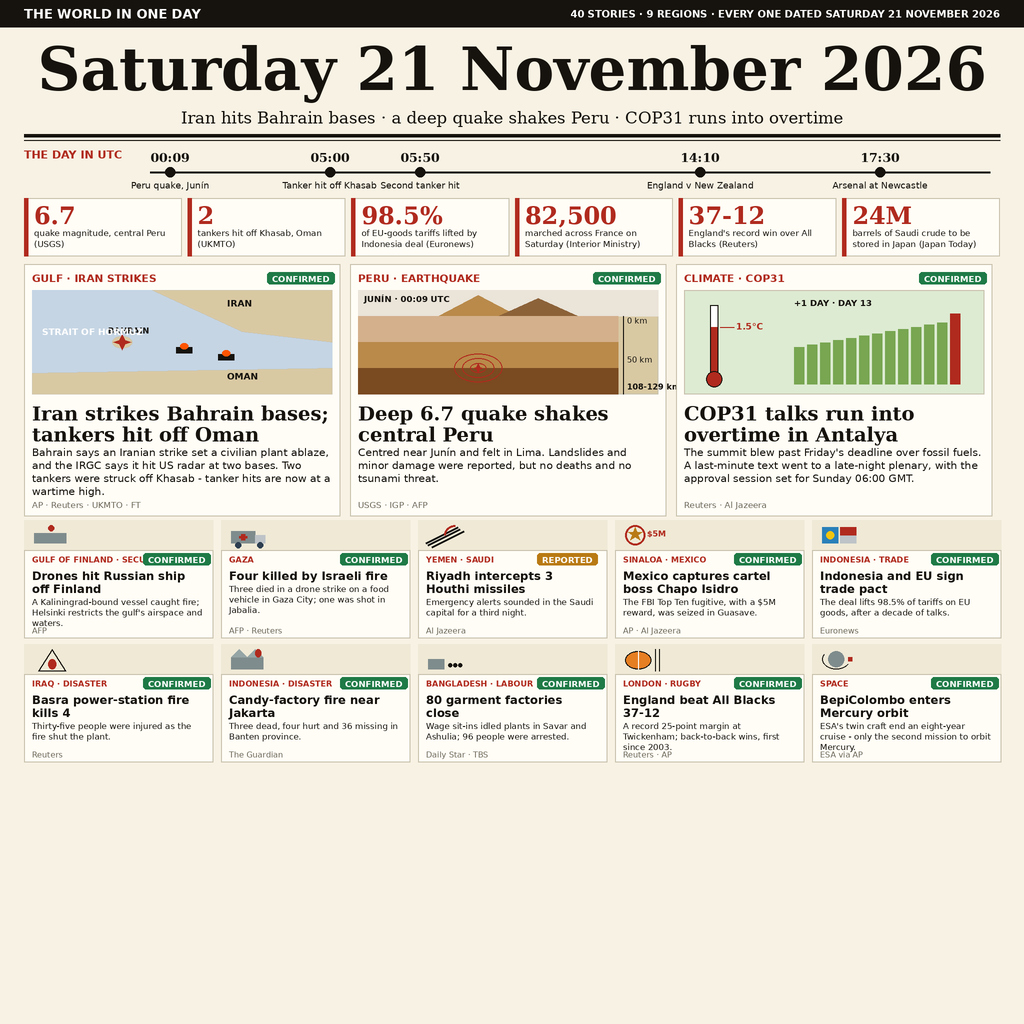
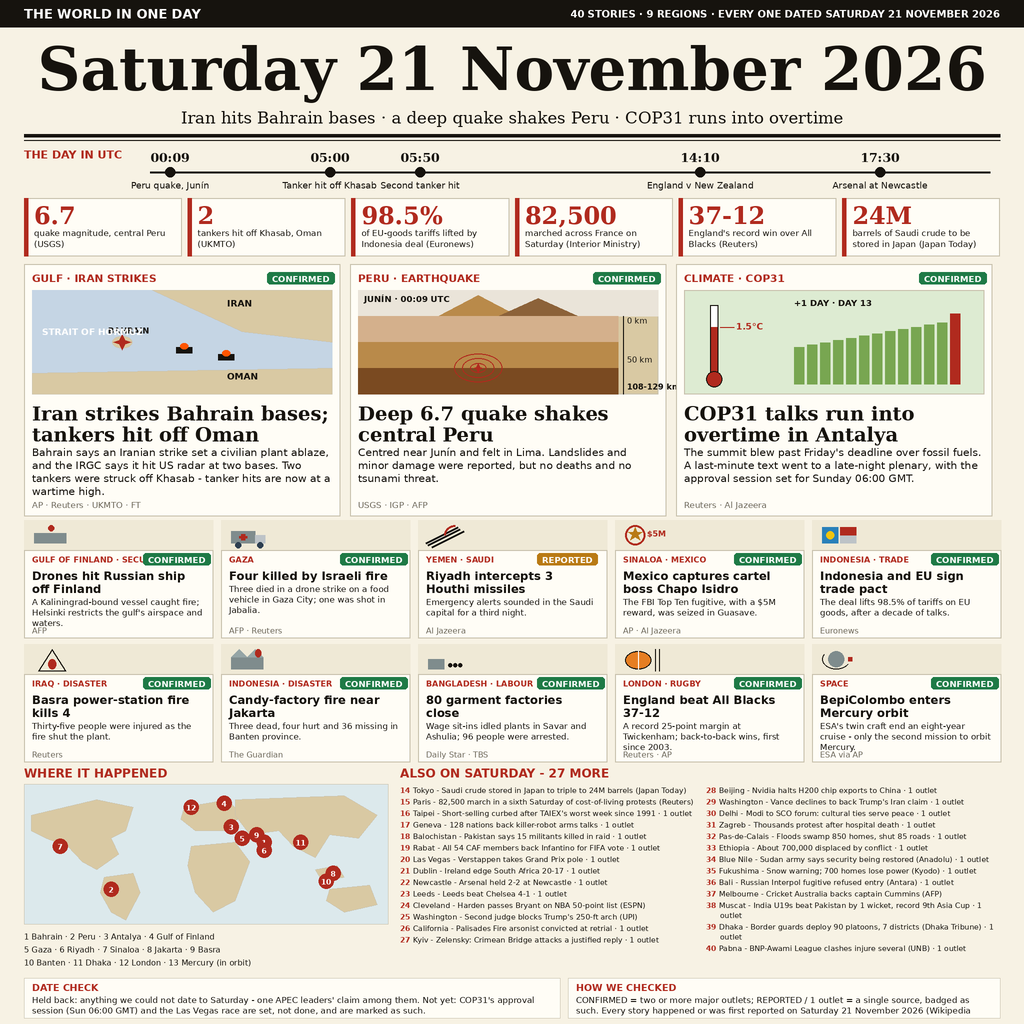
Bottom band: schematic map, also-on-Saturday list 14-40, date-check and how-we-checked footers

Changed region(s): [[0.0, 0.75, 0.9688, 1.0]]

diff --git a/draw.py b/draw.py
@@ -176,6 +176,151 @@ def draw_stats(d):
             d.text((bx + X(10), ly), line, fill=PALETTE["INK"], font=font_lbl)
             ly += X(11)
 
+def draw_bottom(d):
+    # Headings at y766
+    d.text((X(24), X(766)), "WHERE IT HAPPENED", fill=PALETTE["RED"], font=F("sansb", 12))
+    d.text((X(400), X(766)), "ALSO ON SATURDAY - 27 MORE", fill=PALETTE["RED"], font=F("sansb", 12))
+    
+    # MAP panel rectangle x24-388, y784-924
+    d.rectangle([X(24), X(784), X(388), X(924)], fill="#DCE9EC", outline=PALETTE["LINE"])
+    
+    # Continents as SAND-filled polygons with LINE outline
+    continents_raw = [
+        # North America
+        [(2,8),(20,4),(30,6),(28,12),(24,14),(26,18),(20,22),(16,20),(12,16),(6,14),(2,12)],
+        # South America
+        [(22,24),(30,23),(32,28),(28,35),(24,33),(21,28)],
+        # Africa
+        [(46,16),(58,15),(62,20),(58,30),(52,33),(47,28),(45,21)],
+        # Europe
+        [(44,6),(56,4),(60,8),(55,12),(47,12),(43,9)],
+        # Asia
+        [(58,4),(88,3),(97,8),(92,14),(84,13),(80,19),(74,16),(70,12),(62,13),(58,8)],
+        # SE Asia isles
+        [(80,22),(86,21),(88,24),(82,25)],
+        # Australia
+        [(84,27),(95,26),(97,31),(88,33),(83,30)]
+    ]
+    for poly in continents_raw:
+        pts = [(X(24 + rx * 3.64), X(784 + ry * 3.89)) for rx, ry in poly]
+        d.polygon(pts, fill=PALETTE["SAND"], outline=PALETTE["LINE"])
+        
+    # DOTS
+    dots = [
+        (1, 66, 15), (2, 24, 27), (3, 57, 11), (4, 55, 5),
+        (5, 60, 14), (6, 66, 17), (7, 10, 16), (8, 85, 23),
+        (9, 64, 13), (10, 83, 25), (11, 76, 15), (12, 46, 6)
+    ]
+    for num, rx, ry in dots:
+        cx = X(24 + rx * 3.64)
+        cy = X(784 + ry * 3.89)
+        r = X(7.5)
+        d.ellipse([cx - r, cy - r, cx + r, cy + r], fill=PALETTE["RED"])
+        # White F("sansb",7.5) number centred on it
+        f_dot = F("sansb", 7.5)
+        bbox = d.textbbox((0, 0), str(num), font=f_dot)
+        tw = bbox[2] - bbox[0]
+        th = bbox[3] - bbox[1]
+        d.text((cx - tw / 2, cy - th / 2 - 1), str(num), fill="#FFFFFF", font=f_dot)
+        
+    # KEY under map, F("sans",8) INK at x24, three lines starting y932, step 13
+    key_lines = [
+        "1 Bahrain · 2 Peru · 3 Antalya · 4 Gulf of Finland",
+        "5 Gaza · 6 Riyadh · 7 Sinaloa · 8 Jakarta · 9 Basra",
+        "10 Banten · 11 Dhaka · 12 London · 13 Mercury (in orbit)"
+    ]
+    ky = X(932)
+    for kl in key_lines:
+        d.text((X(24), ky), kl, fill=PALETTE["INK"], font=F("sans", 8))
+        ky += X(13)
+        
+    # LIST ITEMS
+    items_col1 = [
+        (14, "Tokyo", "Saudi crude stored in Japan to triple to 24M barrels (Japan Today)"),
+        (15, "Paris", "82,500 march in a sixth Saturday of cost-of-living protests (Reuters)"),
+        (16, "Taipei", "Short-selling curbed after TAIEX's worst week since 1991 · 1 outlet"),
+        (17, "Geneva", "128 nations back killer-robot arms talks · 1 outlet"),
+        (18, "Balochistan", "Pakistan says 15 militants killed in raid · 1 outlet"),
+        (19, "Rabat", "All 54 CAF members back Infantino for FIFA vote · 1 outlet"),
+        (20, "Las Vegas", "Verstappen takes Grand Prix pole · 1 outlet"),
+        (21, "Dublin", "Ireland edge South Africa 20-17 · 1 outlet"),
+        (22, "Newcastle", "Arsenal held 2-2 at Newcastle · 1 outlet"),
+        (23, "Leeds", "Leeds beat Chelsea 4-1 · 1 outlet"),
+        (24, "Cleveland", "Harden passes Bryant on NBA 50-point list (ESPN)"),
+        (25, "Washington", "Second judge blocks Trump's 250-ft arch (UPI)"),
+        (26, "California", "Palisades Fire arsonist convicted at retrial · 1 outlet"),
+        (27, "Kyiv", "Zelensky: Crimean Bridge attacks a justified reply · 1 outlet")
+    ]
+    
+    items_col2 = [
+        (28, "Beijing", "Nvidia halts H200 chip exports to China · 1 outlet"),
+        (29, "Washington", "Vance declines to back Trump's Iran claim · 1 outlet"),
+        (30, "Delhi", "Modi to SCO forum: cultural ties serve peace · 1 outlet"),
+        (31, "Zagreb", "Thousands protest after hospital death · 1 outlet"),
+        (32, "Pas-de-Calais", "Floods swamp 850 homes, shut 85 roads · 1 outlet"),
+        (33, "Ethiopia", "About 700,000 displaced by conflict · 1 outlet"),
+        (34, "Blue Nile", "Sudan army says security being restored (Anadolu) · 1 outlet"),
+        (35, "Fukushima", "Snow warning; 700 homes lose power (Kyodo) · 1 outlet"),
+        (36, "Bali", "Russian Interpol fugitive refused entry (Antara) · 1 outlet"),
+        (37, "Melbourne", "Cricket Australia backs captain Cummins (AFP)"),
+        (38, "Muscat", "India U19s beat Pakistan by 1 wicket, record 9th Asia Cup · 1 outlet"),
+        (39, "Dhaka", "Border guards deploy 90 platoons, 7 districts (Dhaka Tribune) · 1 outlet"),
+        (40, "Pabna", "BNP-Awami League clashes injure several (UNB) · 1 outlet")
+    ]
+    
+    def draw_list_column(x_start, items):
+        y = X(786)
+        col_w = X(294)
+        f_num = F("sansb", 7.5)
+        f_body = F("sans", 7.5)
+        
+        for num, place, text in items:
+            num_str = str(num)
+            num_w = d.textbbox((0, 0), num_str, font=f_num)[2]
+            space_w = d.textbbox((0, 0), " ", font=f_num)[2]
+            
+            full_text = f"{place} - {text}"
+            lines = wrap(d, full_text, f_body, col_w - num_w - space_w)
+            if not lines:
+                lines = [full_text]
+                
+            d.text((x_start, y), num_str, fill=PALETTE["RED"], font=f_num)
+            d.text((x_start + num_w + space_w, y), lines[0], fill=PALETTE["INK"], font=f_body)
+            y += X(10.0)
+            
+            for l in lines[1:]:
+                d.text((x_start + X(14), y), l, fill=PALETTE["INK"], font=f_body)
+                y += X(10.0)
+                
+            y += X(1.5)
+        return y
+
+    y1_end = draw_list_column(X(400), items_col1)
+    y2_end = draw_list_column(X(706), items_col2)
+    
+    print(f"Col 1 final y: {y1_end} (max allowed {X(968)})")
+    print(f"Col 2 final y: {y2_end} (max allowed {X(968)})")
+    if y1_end > X(968) or y2_end > X(968):
+        print("OVERFLOW")
+
+def draw_footer(d):
+    boxes = [
+        (X(24), X(560), "DATE CHECK", "Held back: anything we could not date to Saturday - one APEC leaders' claim among them. Not yet: COP31's approval session (Sun 06:00 GMT) and the Las Vegas race are set, not done, and are marked as such."),
+        (X(568), X(1000), "HOW WE CHECKED", "CONFIRMED = two or more major outlets; REPORTED / 1 outlet = a single source, badged as such. Every story happened or was first reported on Saturday 21 November 2026 (Wikipedia Current Events and the named outlets). Original drawings, no photos. Map is schematic.")
+    ]
+    for x1, x2, heading, body in boxes:
+        d.rectangle([x1, X(978), x2, X(1018)], fill=PALETTE["CARD"], outline=PALETTE["LINE"])
+        d.text((x1 + X(8), X(982)), heading, fill=PALETTE["RED"], font=F("sansb", 9.5))
+        
+        body_lines = wrap(d, body, F("sans", 8.5), (x2 - x1) - X(16))
+        if len(body_lines) > 2:
+            body_lines = body_lines[:2]
+            
+        by = X(995)
+        for bl in body_lines:
+            d.text((x1 + X(8), by), bl, fill=PALETTE["INK"], font=F("sans", 8.5))
+            by += X(10.5)
+
 def main():
     W = 1024 * S
     H = 1024 * S
@@ -188,6 +333,8 @@ def main():
     draw_stats(d)
     draw_leads(d)
     draw_minis(d)
+    draw_bottom(d)
+    draw_footer(d)
 
     im_resized = im.resize((1024, 1024), Image.LANCZOS)
     im_resized.save("entry.png", "PNG")
@@ -488,3 +635,4 @@ def draw_minis(d):
 
 if __name__ == "__main__":
     main()
+
